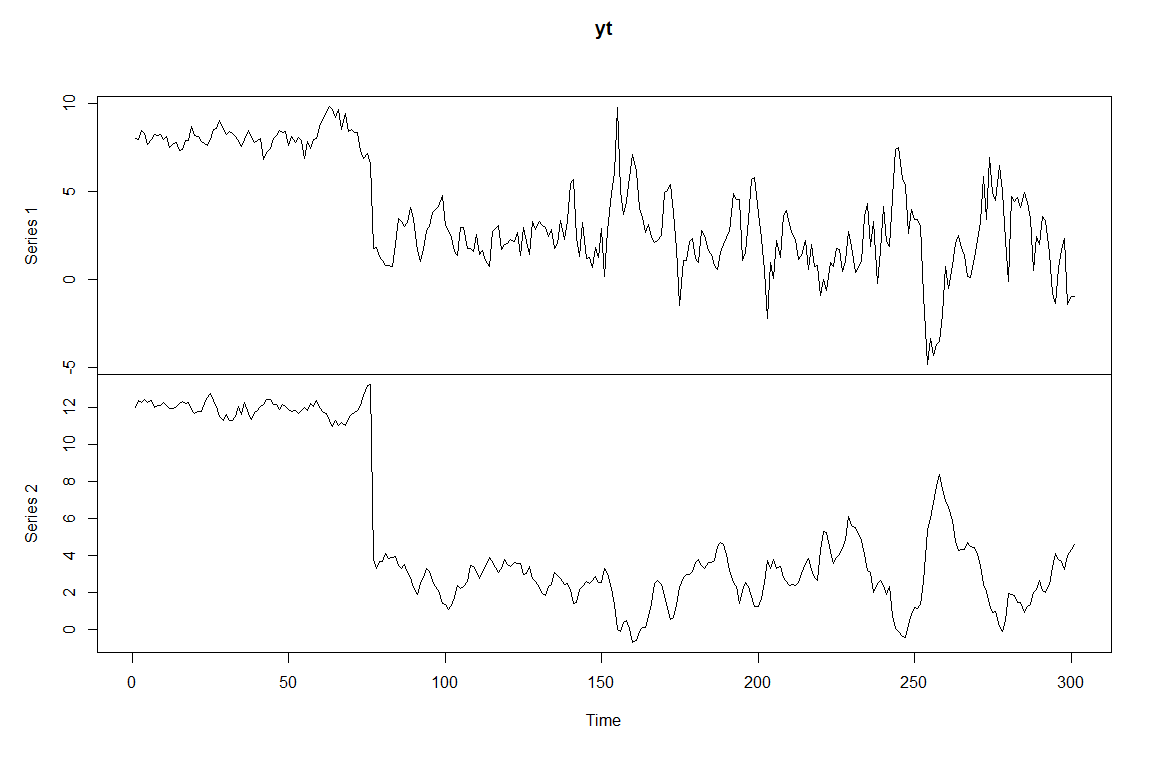
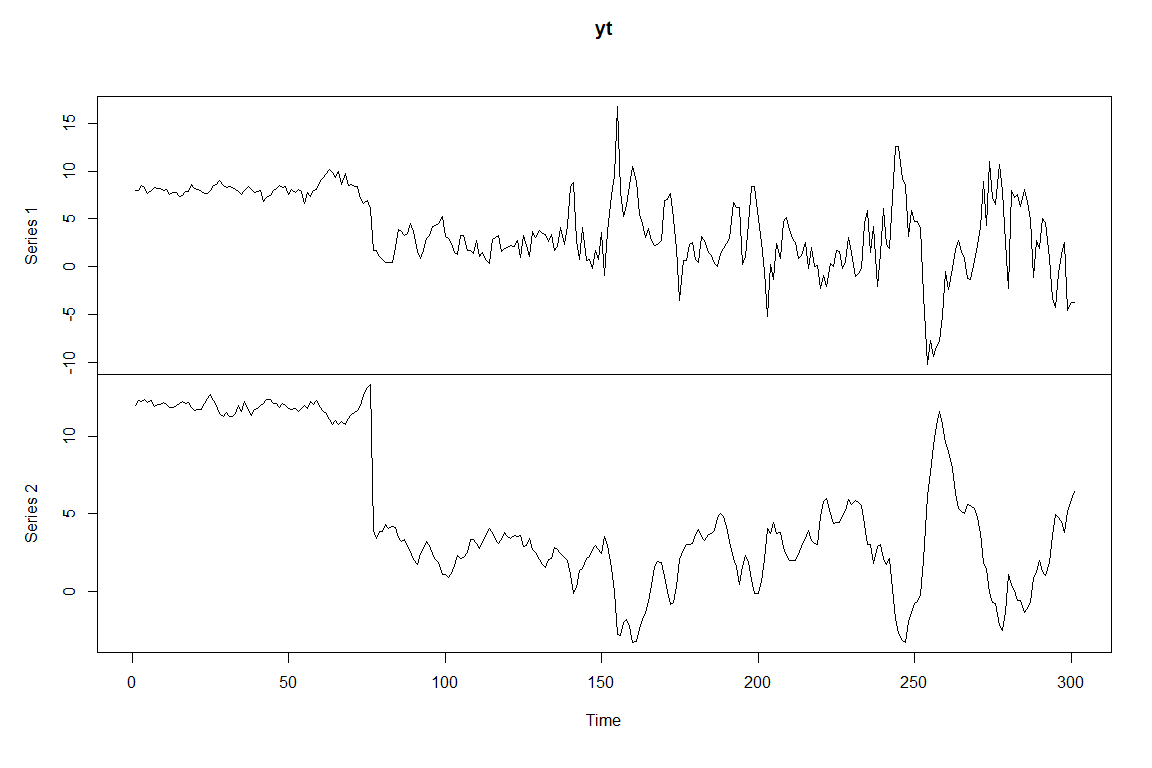
dsada

diff --git a/README.md b/README.md
@@ -76,9 +76,9 @@ $$
 where $y_t$ is a $k$-dimensional vector of endogenous variables (time
 series) at time $t$, $d_t$ is a $q$-dimensional vector of deterministic
 (exogenous) variables at time $t$, and the (reduced-form) innovations
-are $u_t \sim \textrm{N}_k(0,\Sigma_u)$ with independence between time
-periods. Here $\Pi_\ell$ for $\ell=1,\dots,p$ is a $(k \times k)$
-matrix, and $\Psi$ is a $(k \times q)$ matrix. Now
+are $u_t \sim N_k(0,\Sigma_u)$ with independence between time periods.
+Here $\Pi_\ell$ for $\ell=1,\dots,p$ is a $(k \times k)$ matrix, and
+$\Psi$ is a $(k \times q)$ matrix. Now
 
 $$
 \textrm{E}(y_t)=\mu_t=\Psi d_t
@@ -957,9 +957,9 @@ A &= \begin{bmatrix} 1 & 0 \\
 \end{aligned}                         
 $$
 
-The initial conditions ($\lambda_0$) and initial observations ($y_0$)
-are both set to their unconditional means (or as we like to call them:
-steady states).
+The initial conditions ($\ln \lambda_0$) and initial observations
+($y_0$) are both set to their unconditional means (or as we like to call
+them: steady states).
 
 $$
 \begin{aligned}
@@ -1089,8 +1089,8 @@ SV_priors <- list(
   Omega_gamma_1      = diag(0.01, k),
   theta_log_lambda_0 = gamma_0/(1-gamma_1),
   Omega_log_lambda_0 = diag(0.01, k),
-  V_0                = (50 - k - 1) * Phi,
-  m_0                =  50
+  V_0                = (100 - k - 1) * Phi,
+  m_0                =  100
   )
 
 bvar_obj$SV <- TRUE
@@ -1373,7 +1373,7 @@ $$
 
 Since the log volatilities are Random Walks now, their steady states do
 not exist, and as such we specify some arbitrary initial conditions
-$\lambda_0$
+$\ln \lambda_0$
 
 $$
 \begin{aligned}
@@ -1398,7 +1398,7 @@ Pi_1 <- matrix(c( 0.80, 0.15,
 A <- matrix(c(1.00, 0.00,
               0.25, 1.00), 2, 2, byrow = TRUE)
 
-phi <- c(0.04, 0.08)
+phi <- c(0.08, 0.06)
 
 log_lambda <- matrix(NA, N, 2)
 log_lambda[1,] <- c(-2,-3) #ln lambda_t=0
@@ -1480,8 +1480,8 @@ SV_priors <- list(
   Omega_A             = diag(0.01, n_free_params_A),
   mu_log_lambda_0     = log_lambda[1,],
   sigma2_log_lambda_0 = rep(0.01, k),
-  alpha_phi           =  c(25, 15),
-  beta_phi            = (c(25, 15) - 1) * phi
+  alpha_phi           =  c(100, 100),
+  beta_phi            = (c(100, 100) - 1) * phi
 )
 
 bvar_obj$SV <- TRUE